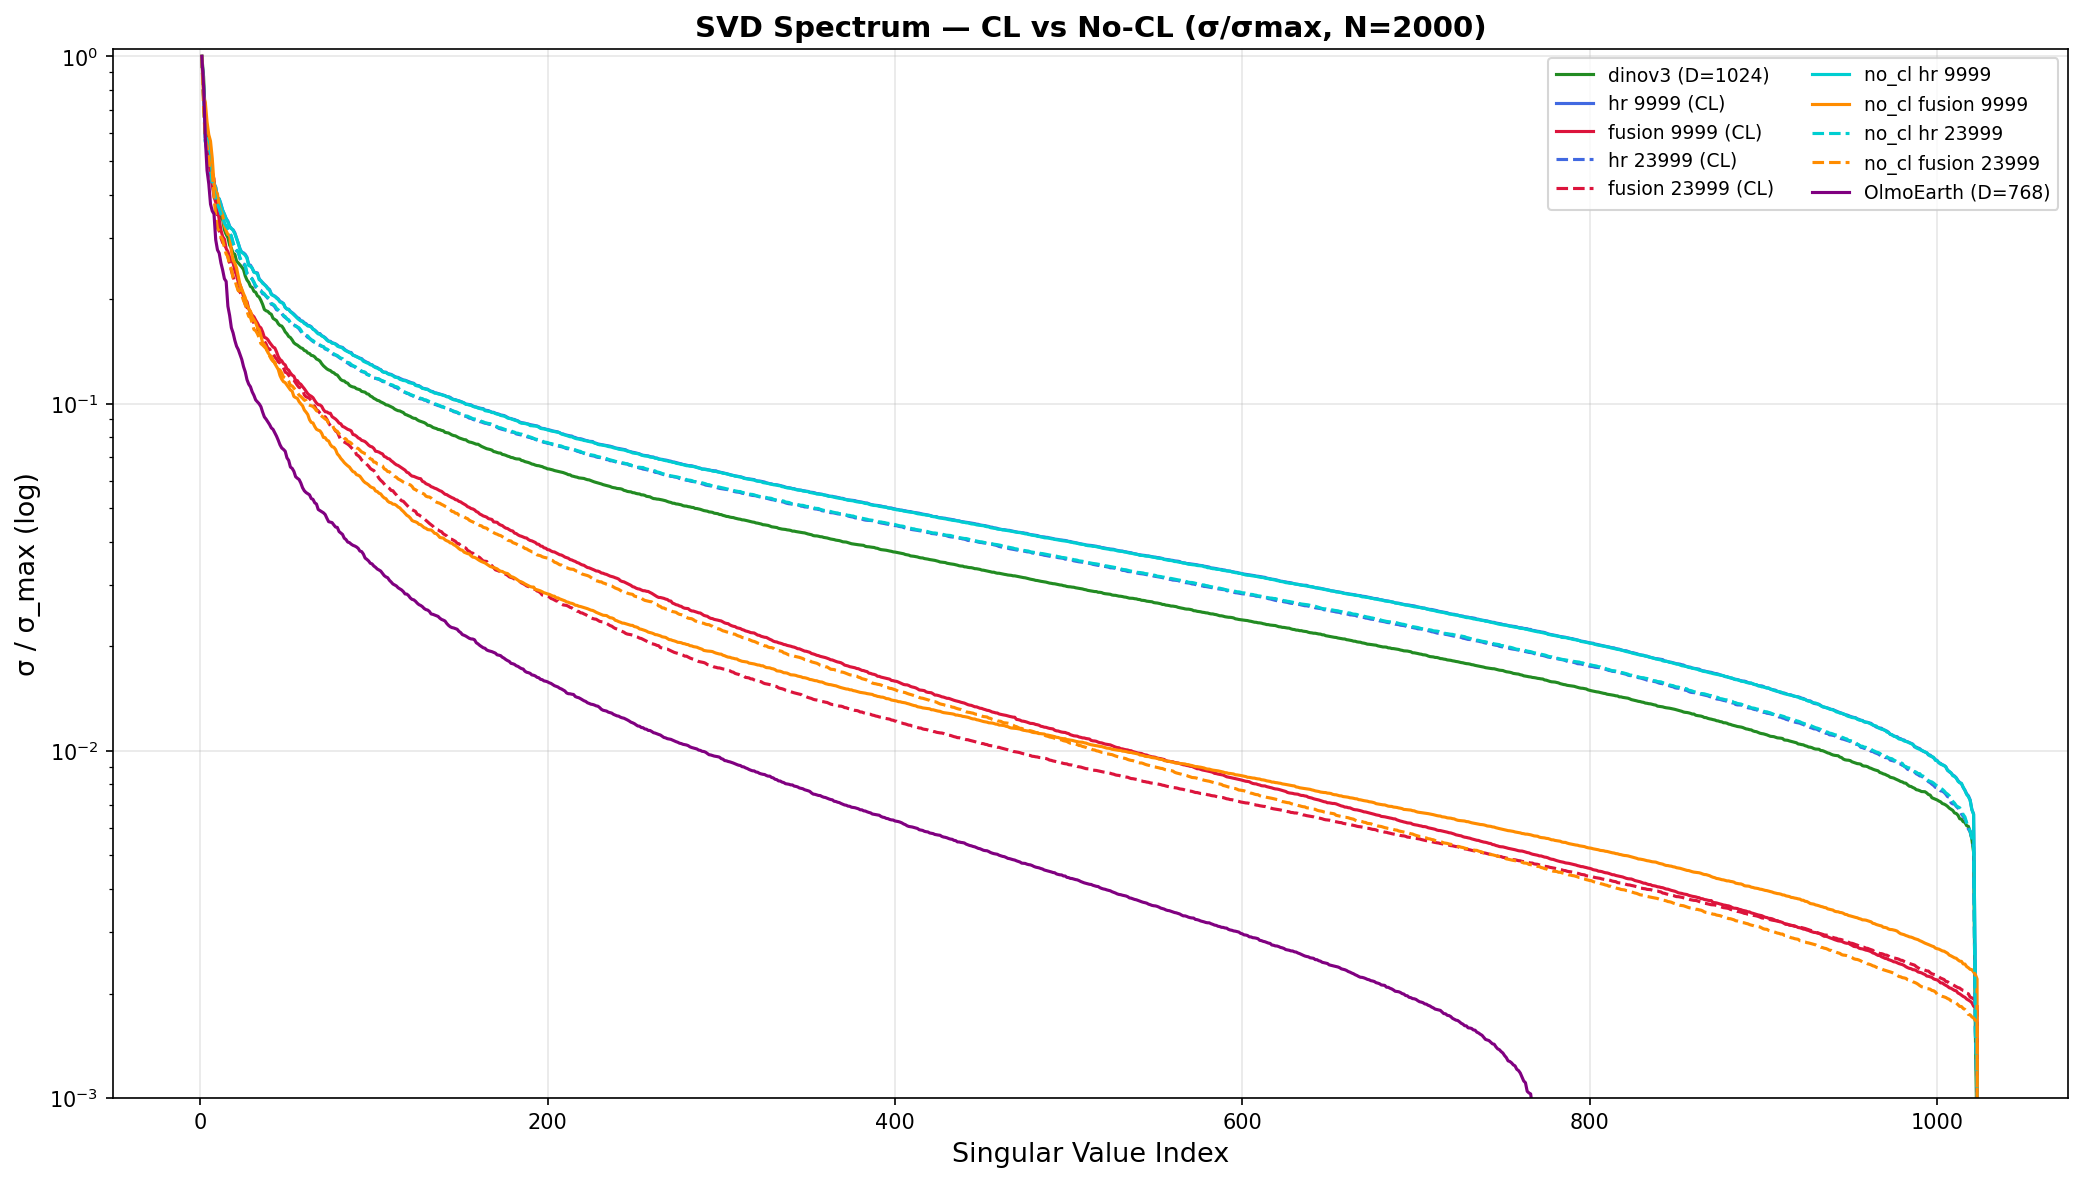
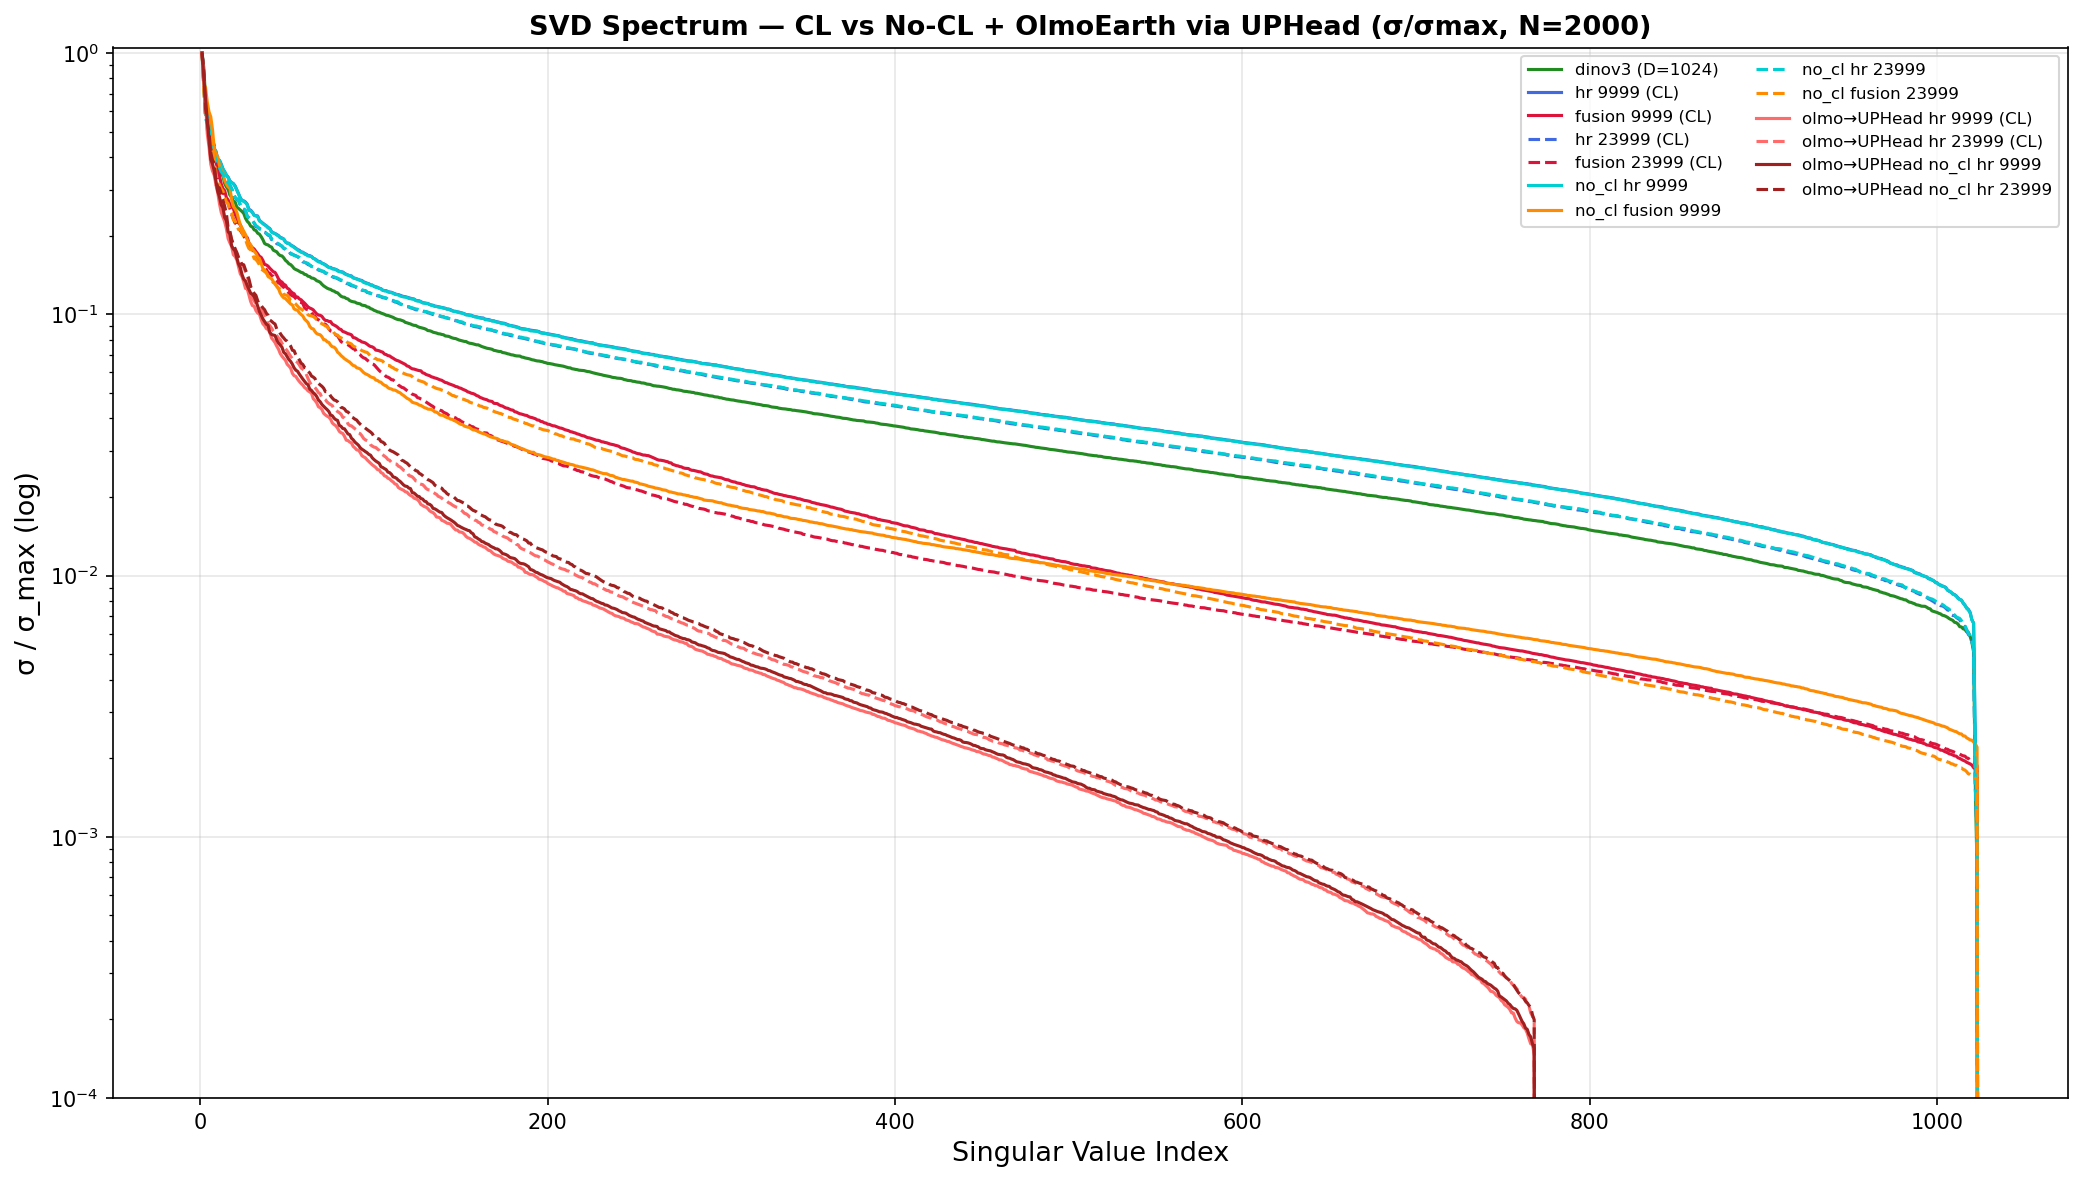
1

diff --git a/task3_cl_vs_nocl.py b/task3_cl_vs_nocl.py
@@ -8,7 +8,7 @@ Color scheme:
   9999 = solid, 23999 = dashed.
 """
 
-import sys, types, random, glob, os, numpy as np, torch, cv2
+import sys, types, random, glob, os, numpy as np, torch, torch.nn as nn, cv2
 import pandas as pd
 import matplotlib; matplotlib.use("Agg")
 import matplotlib.pyplot as plt
@@ -42,6 +42,21 @@ POTSDAM_STD  = np.array([36.295481104983764, 35.3808408869616, 36.78625007116312
 DEVICE = torch.device("cuda" if torch.cuda.is_available() else "cpu")
 print(f"Device: {DEVICE}")
 os.makedirs(CACHE_DIR, exist_ok=True)
+
+class UPHead(nn.Module):
+    def __init__(self, in_dim=768, out_dim=1024):
+        super().__init__()
+        self.decoder = nn.Sequential(nn.Linear(in_dim, out_dim), nn.LayerNorm(out_dim))
+    def forward(self, x):
+        return self.decoder(x)
+
+def load_uphead(ckpt_path):
+    head = UPHead(768, 1024)
+    ckpt = torch.load(ckpt_path, map_location="cpu", weights_only=False)
+    sd = {k[len("embed_head."):]: v for k,v in ckpt.items()
+          if isinstance(v, torch.Tensor) and k.startswith("embed_head.")}
+    head.load_state_dict(sd, strict=True)
+    return head.to(DEVICE).eval()
 
 def _unwrap(ckpt):
     for c in ("model","state_dict","teacher","student"):
@@ -164,11 +179,26 @@ def main():
         print(f"  {tuple(F.shape)}")
         if DEVICE.type=="cuda": torch.cuda.empty_cache()
 
-    print("\n=== OlmoEarth ===")
-    Fs["olmo"] = _load_or_extract(
+    print("\n=== OlmoEarth (raw, cached) ===")
+    F_olmo_raw = _load_or_extract(
         f"{CACHE_DIR}/F_olmo_{ck}.pt",
         lambda: extract_olmoearth(build_olmoearth(), olmo_idx), "olmo")
-    print(f"  {tuple(Fs['olmo'].shape)}")
+    print(f"  raw: {tuple(F_olmo_raw.shape)}")
+
+    # Apply UPHead from each checkpoint to OlmoEarth features
+    olmo_configs = [
+        ("olmo_cl_9999",    CL_9999,     "olmo hr 9999 (CL)"),
+        ("olmo_cl_23999",   CL_23999,    "olmo hr 23999 (CL)"),
+        ("olmo_nocl_9999",  NO_CL_9999,  "olmo no_cl hr 9999"),
+        ("olmo_nocl_23999", NO_CL_23999, "olmo no_cl hr 23999"),
+    ]
+    Fs_olmo = {}
+    for suffix, ckpt_path, label in olmo_configs:
+        head = load_uphead(ckpt_path)
+        with torch.no_grad():
+            F_1024 = head(F_olmo_raw.to(DEVICE)).cpu()
+        Fs_olmo[suffix] = F_1024
+        print(f"  {label}: {tuple(F_1024.shape)}")
 
     # SVD
     def svd(F, name):
@@ -180,53 +210,61 @@ def main():
 
     spectra = {}
     for suffix, _, label in jobs:
-        F = _load_or_extract(f"{CACHE_DIR}/F_{suffix}_{ck}.pt", lambda s=suffix: torch.load(f"{CACHE_DIR}/F_{s}_{ck}.pt"), label)
+        F = torch.load(f"{CACHE_DIR}/F_{suffix}_{ck}.pt", map_location="cpu")
         spectra[suffix] = svd(F, label)
-    spectra["olmo"] = svd(torch.load(f"{CACHE_DIR}/F_olmo_{ck}.pt"), "OlmoEarth")
+    for suffix, _, label in olmo_configs:
+        spectra[suffix] = svd(Fs_olmo[suffix], label)
 
     # Plot with color scheme
-    # HR(CL)=blue, Fusion(CL)=red, HR(no_cl)=cyan, Fusion(no_cl)=orange
-    # 9999=solid, 23999=dashed; dinov3=green, olmo=purple
+    # HR(CL)=blue, Fusion(CL)=crimson, HR(no_cl)=cyan, Fusion(no_cl)=darkorange
+    # 9999=solid, 23999=dashed; dinov3=green
+    # OlmoEarth via UPHead: 4 gradient reds (CL=lighter, no_cl=darker)
     C = {
-        "dino":          ("forestgreen", "-"),
-        "cl_hr_9999":    ("royalblue",   "-"),
-        "cl_hr_23999":   ("royalblue",   "--"),
-        "cl_fus_9999":   ("crimson",     "-"),
-        "cl_fus_23999":  ("crimson",     "--"),
-        "nocl_hr_9999":  ("darkturquoise","-"),
-        "nocl_hr_23999": ("darkturquoise","--"),
-        "nocl_fus_9999": ("darkorange",  "-"),
-        "nocl_fus_23999":("darkorange",  "--"),
-        "olmo":          ("purple",      "-"),
+        "dino":              ("forestgreen",  "-"),
+        "cl_hr_9999":        ("royalblue",    "-"),
+        "cl_hr_23999":       ("royalblue",    "--"),
+        "cl_fus_9999":       ("crimson",      "-"),
+        "cl_fus_23999":      ("crimson",      "--"),
+        "nocl_hr_9999":      ("darkturquoise","-"),
+        "nocl_hr_23999":     ("darkturquoise","--"),
+        "nocl_fus_9999":     ("darkorange",   "-"),
+        "nocl_fus_23999":    ("darkorange",   "--"),
+        "olmo_cl_9999":      ("#FF6B6B",      "-"),   # light red
+        "olmo_cl_23999":     ("#FF6B6B",      "--"),
+        "olmo_nocl_9999":    ("#A02020",      "-"),   # dark red
+        "olmo_nocl_23999":   ("#A02020",      "--"),
     }
     L = {
-        "dino":          "dinov3 (D=1024)",
-        "cl_hr_9999":    "hr 9999 (CL)",
-        "cl_hr_23999":   "hr 23999 (CL)",
-        "cl_fus_9999":   "fusion 9999 (CL)",
-        "cl_fus_23999":  "fusion 23999 (CL)",
-        "nocl_hr_9999":  "no_cl hr 9999",
-        "nocl_hr_23999": "no_cl hr 23999",
-        "nocl_fus_9999": "no_cl fusion 9999",
-        "nocl_fus_23999":"no_cl fusion 23999",
-        "olmo":          "OlmoEarth (D=768)",
+        "dino":              "dinov3 (D=1024)",
+        "cl_hr_9999":        "hr 9999 (CL)",
+        "cl_hr_23999":       "hr 23999 (CL)",
+        "cl_fus_9999":       "fusion 9999 (CL)",
+        "cl_fus_23999":      "fusion 23999 (CL)",
+        "nocl_hr_9999":      "no_cl hr 9999",
+        "nocl_hr_23999":     "no_cl hr 23999",
+        "nocl_fus_9999":     "no_cl fusion 9999",
+        "nocl_fus_23999":    "no_cl fusion 23999",
+        "olmo_cl_9999":      "olmo→UPHead hr 9999 (CL)",
+        "olmo_cl_23999":     "olmo→UPHead hr 23999 (CL)",
+        "olmo_nocl_9999":    "olmo→UPHead no_cl hr 9999",
+        "olmo_nocl_23999":   "olmo→UPHead no_cl hr 23999",
     }
 
     fig, ax = plt.subplots(figsize=(14, 8))
     order = ["dino","cl_hr_9999","cl_fus_9999","cl_hr_23999","cl_fus_23999",
-             "nocl_hr_9999","nocl_fus_9999","nocl_hr_23999","nocl_fus_23999","olmo"]
+             "nocl_hr_9999","nocl_fus_9999","nocl_hr_23999","nocl_fus_23999",
+             "olmo_cl_9999","olmo_cl_23999","olmo_nocl_9999","olmo_nocl_23999"]
     for key in order:
         S = spectra[key]
         color, ls = C[key]
         ax.plot(np.arange(1,len(S)+1), S, color=color, ls=ls, lw=1.5, label=L[key])
 
     all_S = np.concatenate([spectra[k] for k in order])
-    # ax.set_ylim(bottom=all_S.min()*0.8, top=1.05)
-    ax.set_ylim(bottom=1e-3, top=1.05)
+    ax.set_ylim(bottom=1e-4, top=1.05)
     ax.set_yscale("log"); ax.set_xlabel("Singular Value Index", fontsize=13)
     ax.set_ylabel("σ / σ_max (log)", fontsize=13)
-    ax.set_title(f"SVD Spectrum — CL vs No-CL (σ/σmax, N={N})", fontsize=14, fontweight="bold")
-    ax.legend(fontsize=9, ncol=2); ax.grid(True, alpha=0.3)
+    ax.set_title(f"SVD Spectrum — CL vs No-CL + OlmoEarth via UPHead (σ/σmax, N={N})", fontsize=13, fontweight="bold")
+    ax.legend(fontsize=8, ncol=2); ax.grid(True, alpha=0.3)
     plt.tight_layout()
     out = f"{OUT_DIR}/task3_cl_vs_nocl.png"
     plt.savefig(out, dpi=150, bbox_inches="tight", facecolor="white")
